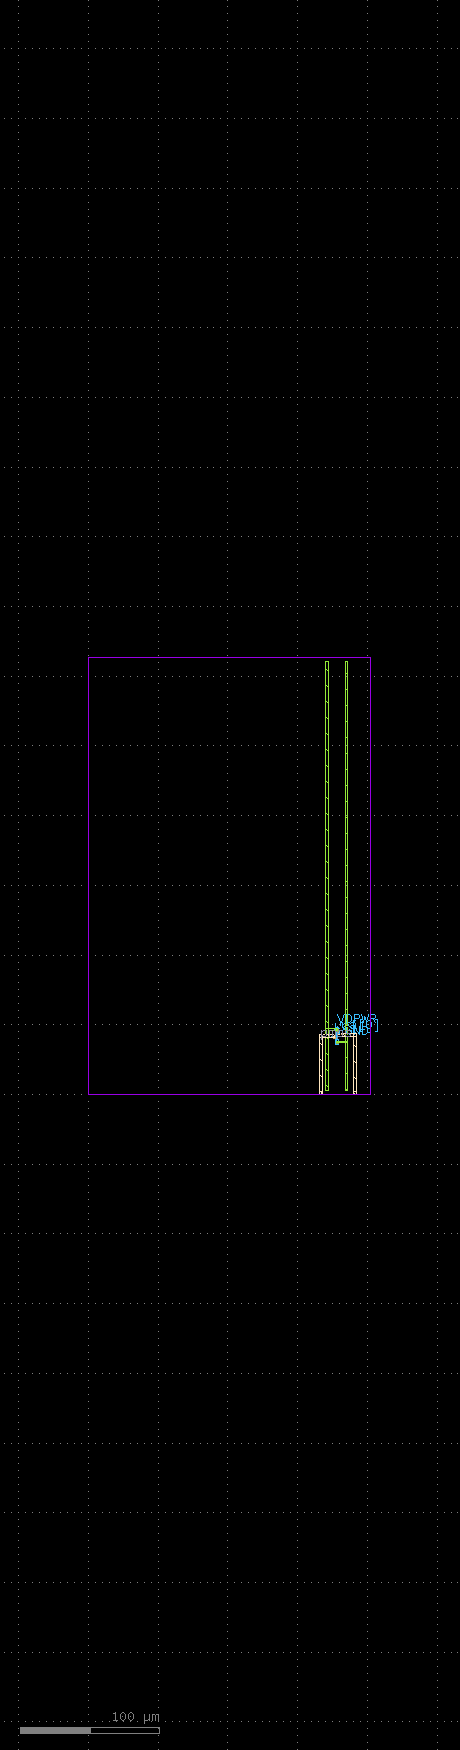
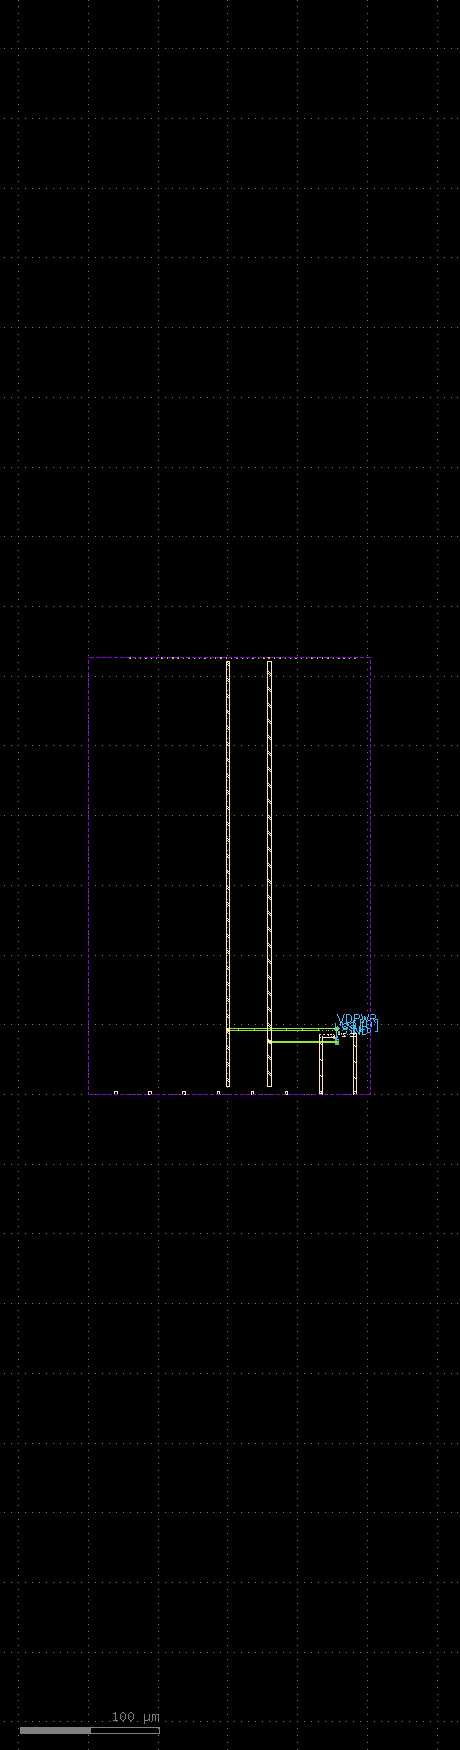
Record the precheck lessons in the analog README
Every precheck failure was about how the GDS is written rather than the
circuit, and all of them will recur on the next analog block. Writing them
down is most of the value of this exercise.

Claude-Session: https://claude.ai/code/session_019Su6ch64Vwo5tpzFpjNs28

Changed region(s): [[0.7, 0.3703, 0.7609, 0.6171], [0.5783, 0.3703, 0.6087, 0.6171], [0.487, 0.3703, 0.5174, 0.6171]]

diff --git a/analog/README.md b/analog/README.md
@@ -65,6 +65,45 @@ source at the top, the sensible convention but the reverse of the NMOS. Placing
 both at the same rotation silently gives a PMOS with its source on the output
 node. Read the netlist, not the picture.
 
+## Getting through Tiny Tapeout's precheck
+
+The design was DRC and LVS clean well before precheck passed. Every remaining
+failure was about how the GDS is *written*, not about the circuit. In order:
+
+**Every LEF port must also be a polygon on the matching `<layer>.pin`** (50/2
+for Metal4, 126/2 for TopMetal1) containing the LEF rectangle. `pin_check`
+verifies exactly that, so both come from one table in `build_gds.py`.
+
+**The LEF must declare all 51 interface pins**, not just the ones the design
+uses — `clk`, `ena`, `rst_n`, every `ui_in`/`uo_out`/`uio_*` and all eight
+`ua[]`. They are parsed straight out of `tech/tt_analog_1x2.def` so the names,
+layers and positions cannot disagree with the shuttle.
+
+**Power goes on TopMetal1 and must be at least 2.1 µm wide.** The published
+analog spec says Metal4 and 1.2 µm, but that is the sky130 guidance; precheck
+is the authority for IHP.
+
+**The boundary layer is `prBoundary.boundary` (189/4)**, not `.drawing`
+(189/0), which is not on the allowed layer list.
+
+**Strip `HeatTrans` (51/0).** The device PCells draw it and it is not on the
+allowed list. It plays no part in DRC or LVS.
+
+**Write the GDS with `write_context_info` disabled.** KLayout otherwise emits a
+hidden `$$$CONTEXT_INFO$$$` cell holding PCell parameters. `gdstk`, which
+precheck uses, counts it as a second top-level cell and fails the boundary
+check — and because `analog_pin_check` inspects `top_level()[0]`, it was
+examining that cell rather than the tile and wrongly reported `ua[0]` as
+unconnected. One flag fixes two confusing failures.
+
+**An unused `ua[]` pin must have no metal within 0.5 µm of it.** The check
+builds a ring 0.1–0.5 µm outside each pad and treats any TopMetal1 there as a
+connection, cross-checked against `analog_pins` in `info.yaml`. Drawing the pad
+rectangle itself is fine; overhanging it by more than 0.1 µm counts as wired.
+
+`analog/out/pincheck.py` and `out/layercheck.py` reproduce these checks
+locally, which is worth it — a CI round trip is about seven minutes.
+
 **The PMOS and NWell-tap PCells each draw their own NWell**, and where the two
 meet the tie ends up only marginally enclosed, tripping `NW.d` (min NWell space
 to external N+ Activ, 0.31 µm). One generous well over the whole p-side fixes
